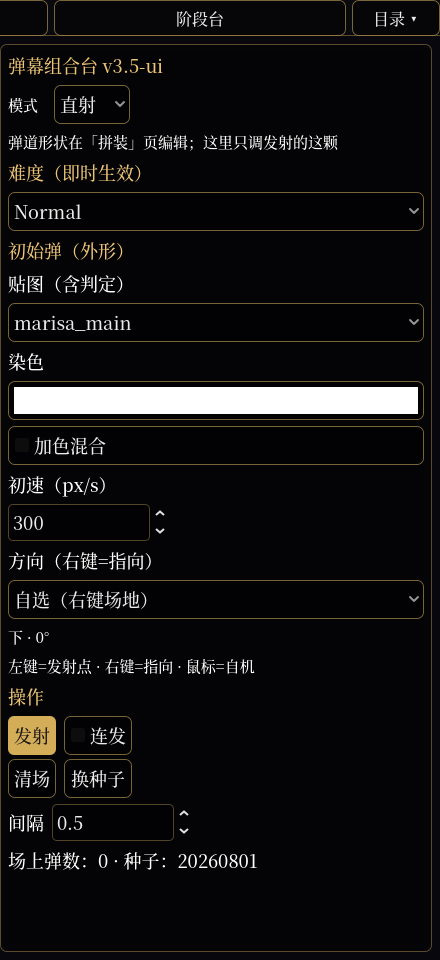
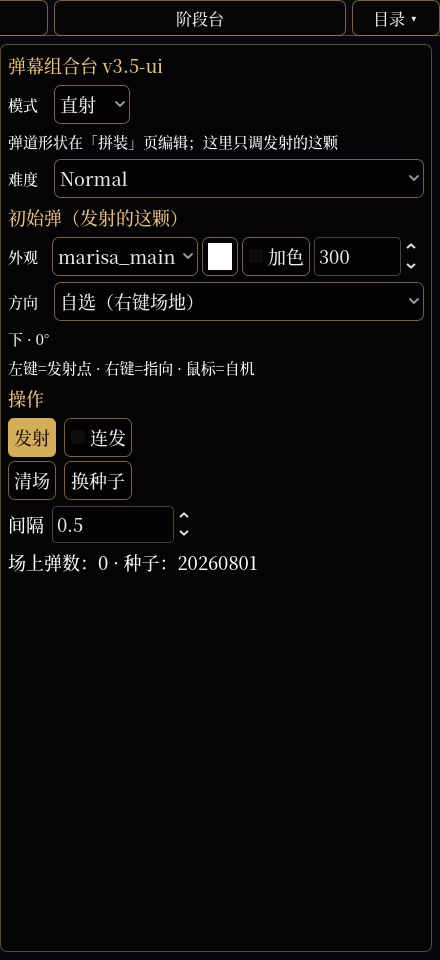
refactor(workbench): 直射页 UI 紧凑化，对齐拼装页初始弹
- 外观从“标签 + 全宽控件”收成一行：贴图 / 色块 / 加色 / 速度
- 难度收成一行；初始弹区标题统一为“初始弹（发射的这颗）”
- 方向一行 + 角度提示；操作/连发/间隔/统计保持不变
- 旧空行为脚本/参数/热更新区块仍默认隐藏
- 更新 direct.png；全量 830 / 7699

验证：verify 七步全绿。

diff --git a/docs/BEST_PRACTICES_LOG.md b/docs/BEST_PRACTICES_LOG.md
@@ -26,8 +26,9 @@
 
 ## 索引
 
-> 共 21 条（本文件留最近 21 条，其余在 `docs/archive/`；本段由 `tools/log_archive.py` 生成，手改会被覆盖）。
+> 共 22 条（本文件留最近 22 条，其余在 `docs/archive/`；本段由 `tools/log_archive.py` 生成，手改会被覆盖）。
 
+- 2026-10-17 — 直射页 UI 紧凑化（对齐拼装页初始弹）
 - 2026-10-17 — 弹幕台直射页清理：去掉空行为脚本/参数/热更新
 - 2026-10-17 — F10 拼装页补“初始弹”编辑
 - 2026-10-17 — F10 模板选择器：emit / emit_variant 的 A/B 替换弹
@@ -51,6 +52,14 @@
 - 2026-10-04 — 废止「记得调用才显示」：背景演出层改**宿主自动接线**（练习模式也开黑雾）
 
 ## 记录
+
+### 2026-10-17 — 直射页 UI 紧凑化（对齐拼装页初始弹）
+
+- 直射页外观从 4 组“标签 + 全宽控件”收成一行：贴图 / 色块 / 加色 / 速度。
+- 难度改成一行；初始弹区标题与拼装页统一为“初始弹（发射的这颗）”。
+- 方向保留一行 + 角度提示；操作区/连发/间隔/统计不变。
+- 无行为脚本时旧的空区块仍隐藏；直射页现在和拼装页的初始弹编辑同风格。
+- 全量 830 / 7699；verify 七步全绿。
 
 ### 2026-10-17 — 弹幕台直射页清理：去掉空行为脚本/参数/热更新
 
